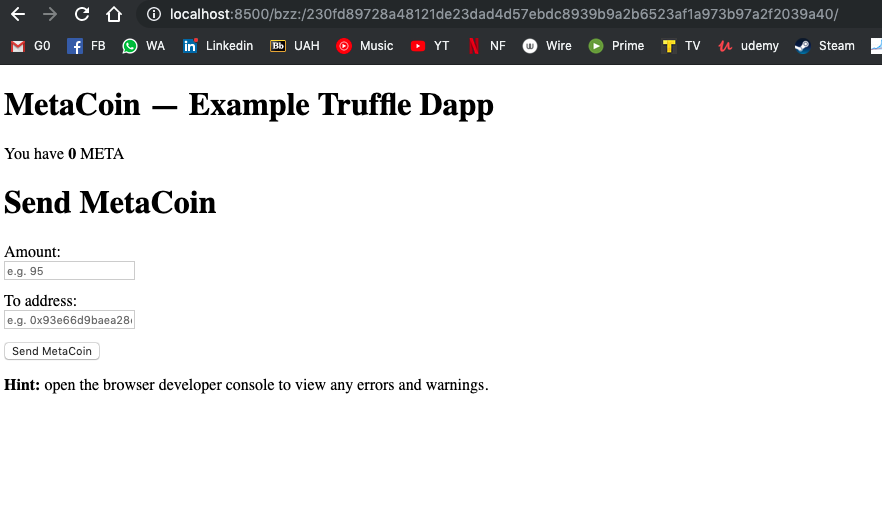
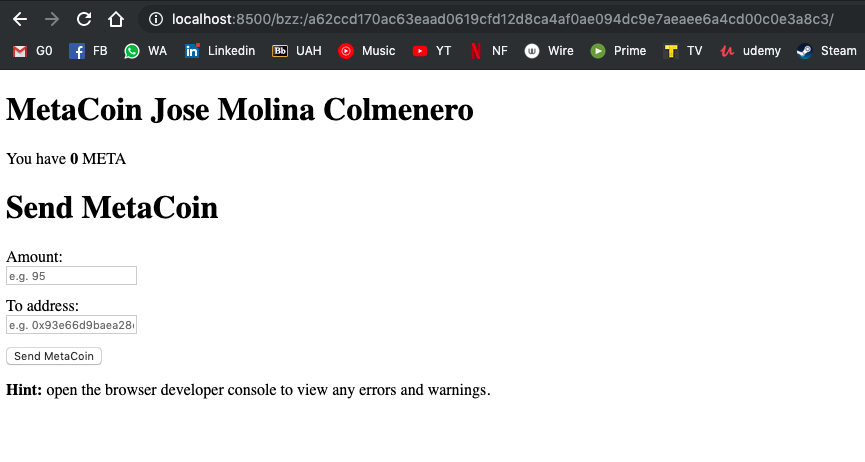
Fix issues in exercise 4

Changed region(s): [[0.0, 0.1818, 0.5618, 0.7879], [0.0, 0.0, 1.0, 0.1515], [0.0, 0.8182, 0.5618, 0.8788]]

diff --git a/ejercicio4/README.md b/ejercicio4/README.md
@@ -76,21 +76,21 @@ Ahora vamos a subir a Swarm la app del ejercicio 2:
 
 ```
 $ swarm --defaultpath dist/index.html --recursive up dist
[2 lines of base64/hex data omitted]
 ```
 
 Y seguidamente comprobamos que funciona:
 
 ![img 1](screenshots/img1.png)
 
-También es posible acceder a través del [navegador](http://localhost:8500/bzz:/230fd89728a48121de23dad4d57ebdc8939b9a2b6523af1a973b97a2f2039a40/).
+También es posible acceder a través del [navegador](http://localhost:8500/bzz:/a62ccd170ac63eaad0619cfd12d8ca4af0ae094dc9e7aeaee6a4cd00c0e3a8c3/).
 
 
 Vamos a continuación a enlazar el hash con nuestro dominio ``josemolina.test`` en la red Rinkeby:
 
 ```
[4 lines of base64/hex data omitted]
 ```
 
 
